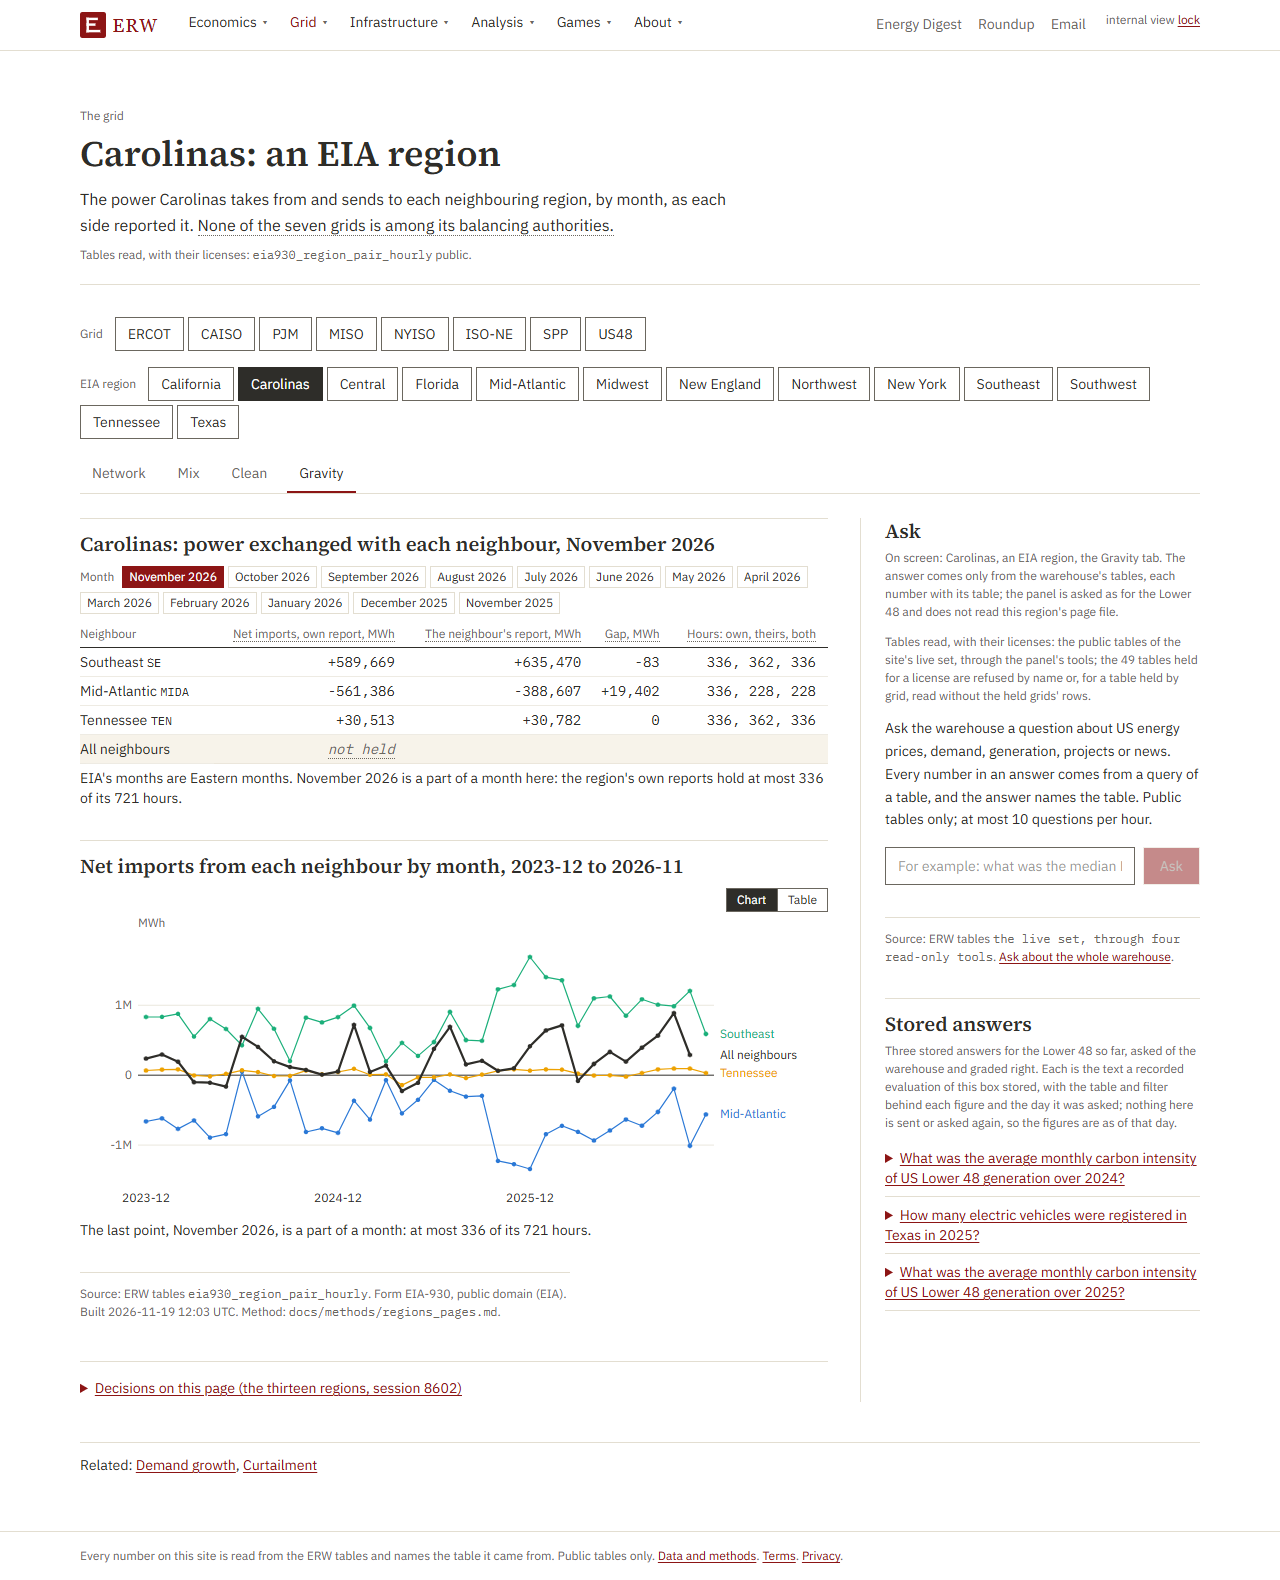
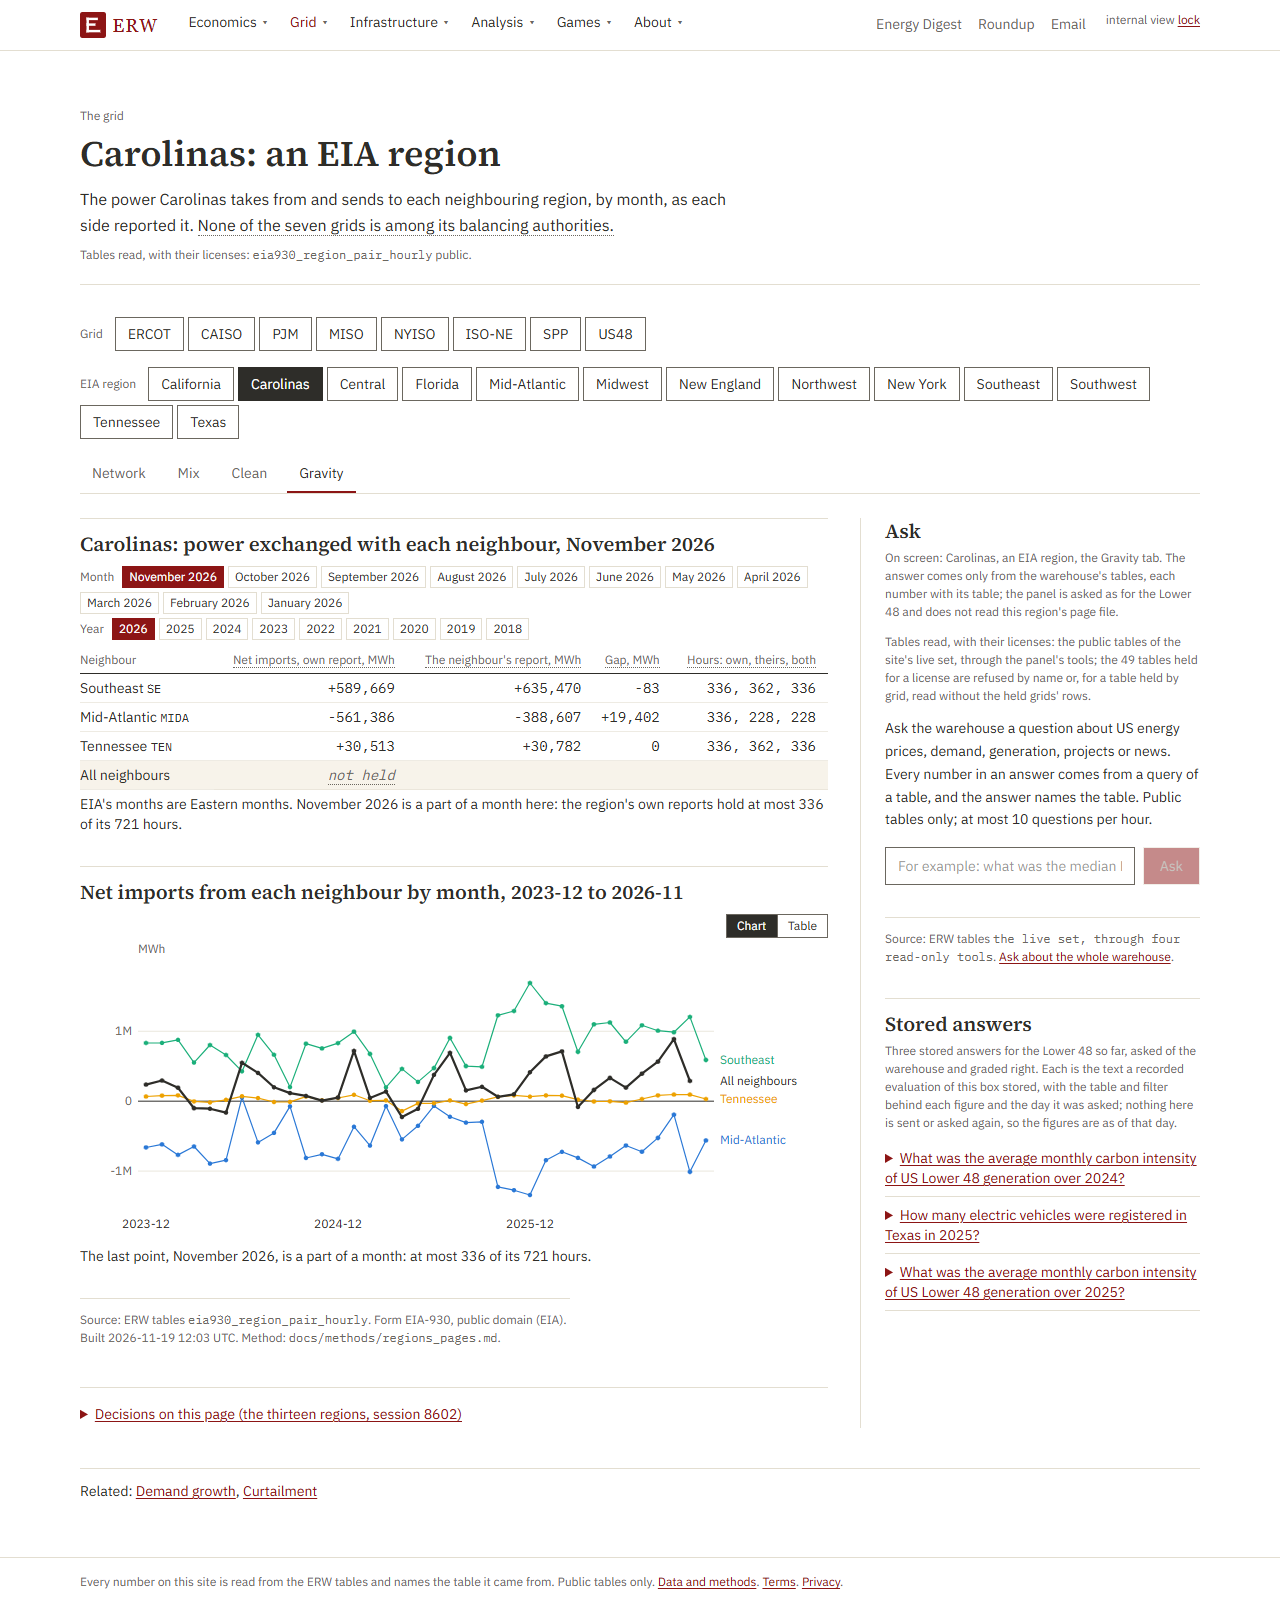
Session 8613: a second read of the regions (five cases, rows 39 to 41): the trade tab reaches every year the file holds; a year's shares say of which months its days are; tests; the method note; pictures

diff --git a/site/components/grid/RegionViews.tsx b/site/components/grid/RegionViews.tsx
@@ -23,7 +23,7 @@ import { RegionHours } from "@/components/grid/RegionHours";
 import { CategoryChart } from "@/components/svgchart";
 import { ToolPicker } from "@/components/tool/Choose";
 import { SourceLine } from "@/components/tool/ToolPage";
-import { ALIKE, MIX_SOURCES, NEW_REGIONS, lastHours, latestHour, monthsNotHeld, monthsOf, neighborName, netLoadFile, newestTradeMonth, notPrinted, partMonth, regionHref, storageNote, tradeMonth, whyBlank, whySentence,
+import { ALIKE, MIX_SOURCES, NEW_REGIONS, lastHours, latestHour, monthsNotHeld, monthsOf, neighborName, netLoadFile, newestTradeMonth, notPrinted, partMonth, regionHref, storageNote, tradeMonth, tradeYears, whyBlank, whySentence, yearMonths,
   type Alike, type IndexRegion, type RegionCode, type RegionIndex, type RegionMix, type RegionTrade, type RegionView } from "@/lib/gridregions";
 import * as mix from "@/lib/mix2";
 import { HOURS, n0, n1 } from "@/lib/mixpage";
@@ -115,6 +115,7 @@ export function RegionMixView({ region, mixFile, period, cal }: { region: IndexR
   // session 8605, the reader's read on the real files: the months the file does not hold are said under the chips, and
   // the Storage row says when one of the region's balancing authorities files no battery series
   const gaps = monthsNotHeld(mixFile);
+  const ofYear = asked && asked.length === 4 ? yearMonths(mixFile.years[asked]) : null;   // session 8613: a year's own months
   const never = notPrinted(mixFile);   // session 8610: the sources the file names as never printed by any authority of the region
   const battery = storageNote(region);
   const named = (key: string) => (key === "storage" && battery ? <span title={battery} className="cursor-help border-b border-dotted border-muted" data-storage-note="1">{label(key)}</span> : label(key));
@@ -193,7 +194,8 @@ export function RegionMixView({ region, mixFile, period, cal }: { region: IndexR
                 <NH key="s" words="not held" why={whyBlank(s.label, region.name, never.includes(s.key), "this period")} />, <NH key="m" words="not held" why={whyBlank(s.label, region.name, never.includes(s.key), "this period")} />] })),
               { key: "all", on: true, cells: ["Net generation", "", typeof p.net_generation_mwh === "number" ? n0(p.net_generation_mwh) : <NH key="g" words="not held" why="The period carries no total." />] }]} />
         ) : <p className="text-sm"><NH words="not held" why={`${region.name} holds no ${asked ? mix.periodName(asked) : "such period"}.`} /></p>}
-        {p ? <p className="mt-1 text-sm">{n0(p.days_held)} days held{typeof p.days_in_month === "number" ? <> of {p.days_in_month}</> : null}.</p> : null}
+        {/* session 8613 (row 40): a year says of which months its days are: the file's own count of months held and due, and the months not held */}
+        {p ? <p className="mt-1 text-sm">{n0(p.days_held)} days held{typeof p.days_in_month === "number" ? <> of {p.days_in_month}</> : null}{ofYear ? <span data-year-months={`${ofYear.months} of ${ofYear.due}`}>, in {ofYear.months} of the year&apos;s {ofYear.due} months{ofYear.due === 12 ? "" : " so far"}{ofYear.missing.length ? <> (not held: {ofYear.missing.map((k) => mix.periodName(k)).join(", ")})</> : null}</span> : null}.</p> : null}
       </Block>
       {/* one calendar month across the years */}
       <Block title={`Year after year: net load by hour in ${calAsked ? mix.calName(calAsked) : ""}`} id="years">
@@ -241,6 +243,7 @@ export function RegionTradeView({ region, trade, month }: { region: IndexRegion;
   const asked = month && trade.months.includes(month) ? month : newest;
   const m = asked ? tradeMonth(trade, asked) : null;
   const last = trade.months.slice(-36);
+  const years = tradeYears(trade);
   // session 8605: a month still in progress (or one a side reported in part) is said, beside the table and under the chart
   const part = asked ? partMonth(trade, asked) : null;
   const lastPart = last.length ? partMonth(trade, last[last.length - 1]) : null;
@@ -250,7 +253,11 @@ export function RegionTradeView({ region, trade, month }: { region: IndexRegion;
   return (
     <div data-region-view="trade" data-region-trade={code} data-region-month={asked ?? ""}>
       <Block title={`${region.name}: power exchanged with each neighbour, ${asked ? mix.periodName(asked) : ""}`} id="trade">
-        <div className="mb-2"><Chips label="Month" items={trade.months.slice(-13).reverse().map((x) => ({ key: x, label: mix.periodName(x), href: regionHref(code, "gravity", { month: x === newest ? undefined : x }), on: x === asked }))} /></div>
+        {/* session 8613 (the second read, row 39): every year the file holds can be reached; the months offered are those of the year shown (it offered the newest thirteen and no way to an older one) */}
+        <div className="mb-2 space-y-1">
+          <Chips label="Month" items={(years.find((y) => y.year === (asked ?? "").slice(0, 4))?.months ?? []).map((x) => ({ key: x, label: mix.periodName(x), href: regionHref(code, "gravity", { month: x === newest ? undefined : x }), on: x === asked }))} />
+          <Chips label="Year" items={years.map((y) => ({ key: y.year, label: y.year, href: regionHref(code, "gravity", { month: y.months[0] === newest ? undefined : y.months[0] }), on: y.year === (asked ?? "").slice(0, 4) }))} />
+        </div>
         {m ? (
           <Table name="trade" caption={`Net imports of ${region.name} from each neighbour, ${asked}`}
             head={["Neighbour", <Head key="o" tip={`Net imports from the neighbour over the month as the region's own balancing authorities reported them, MWh: positive when the region imported, negative when it exported.`}>Net imports, own report, MWh</Head>,

diff --git a/site/lib/gridregions.ts b/site/lib/gridregions.ts
@@ -233,6 +233,29 @@ export function tradeMonth(file: RegionTrade, month: string): { month: string; t
   return { month, total: at(file.net_imports_mwh), rows };
 }
 
+/** Session 8613 (the second read of the regions, row 39): every year a trade file holds, newest first, each with its
+ *  months in which any neighbour's own report is held, newest first. The trade tab offered the newest thirteen months
+ *  and no way to an older one, though the files go back to July 2018. A year with no such month is left out. */
+export function tradeYears(file: RegionTrade): { year: string; months: string[] }[] {
+  const by = new Map<string, string[]>();
+  file.months.forEach((m, i) => {
+    if (!Object.values(file.neighbors).some((n) => n.net_imports_mwh?.[i] !== null && n.net_imports_mwh?.[i] !== undefined)) return;
+    const y = m.slice(0, 4);
+    by.set(y, [m, ...(by.get(y) ?? [])]);
+  });
+  return [...by.entries()].sort((a, b) => b[0].localeCompare(a[0])).map(([year, months]) => ({ year, months: months.sort().reverse() }));
+}
+
+/** Session 8613 (row 40): what a year of a mix file says of its own months: how many it holds, how many were due, and
+ *  which are not held, as the file writes them (`months`, `months_due`, `missing`). Null for a month, or for a year
+ *  whose entry does not say. */
+export function yearMonths(p: MixPeriod | null | undefined): { months: number; due: number; missing: string[] } | null {
+  const months = p?.months, due = p?.months_due;
+  if (typeof months !== "number" || typeof due !== "number") return null;
+  const missing = Array.isArray(p?.missing) ? (p!.missing as unknown[]).filter((k): k is string => typeof k === "string") : [];
+  return { months, due, missing };
+}
+
 /** The newest month in which any neighbour's own report is held. */
 export function newestTradeMonth(file: RegionTrade): string | null {
   for (let i = file.months.length - 1; i >= 0; i -= 1) if (Object.values(file.neighbors).some((n) => n.net_imports_mwh?.[i] !== null && n.net_imports_mwh?.[i] !== undefined)) return file.months[i];

diff --git a/tests/test_session8613.py b/tests/test_session8613.py
@@ -1,0 +1,104 @@
+"""Session 8613 (chain 504, 19 November 2026): a second reader's read of the region tabs on the real files.
+
+Energy Research Warehouse (ERW). Five more cases were taken in a browser on a build, on the controls the first read
+did not exercise (docs/reviews/grid-map-read-2026-11-19.md, rows 39 on). What is held here:
+- row 39: the trade tab offered the newest thirteen months and no way to an older one, though a region's trade file
+  goes back to July 2018. Every year the file holds is now a chip, and the months offered are those of the year shown;
+- row 40: with a whole year as the period, the shares said "301 days held" and not of which months. The line now gives
+  the file's own count of the year's months held and due, and names the months not held.
+The figures below are made up for the tests and are in no page. Nothing here sets the environment or makes a request.
+"""
+
+import json
+import os
+import shutil
+import subprocess
+import unittest
+
+ROOT = os.path.abspath(os.path.join(os.path.dirname(__file__), ".."))
+SITE = os.path.join(ROOT, "site")
+NODE = shutil.which("node")
+EM = chr(0x2014)
+
+
+def src(*p):
+    with open(os.path.join(ROOT, *p), encoding="utf-8") as f:
+        return f.read()
+
+
+def node(code):
+    r = subprocess.run([NODE, "--input-type=module", "-e", code], cwd=SITE, capture_output=True, text=True, encoding="utf-8", timeout=120)
+    assert r.returncode == 0, r.stderr
+    return json.loads(r.stdout.strip().splitlines()[-1])
+
+
+@unittest.skipUnless(NODE, "node is not installed")
+class TheYearsOfATradeFile(unittest.TestCase):
+    """Row 39."""
+
+    @classmethod
+    def setUpClass(cls):
+        cls.d = node("import { tradeYears } from './lib/gridregions.ts';"
+                     "const months = ['2024-11', '2024-12', '2025-01', '2025-02', '2025-03', '2026-01'];"
+                     "const n = (own) => ({ net_imports_mwh: own, their_report_mwh: own, gap_mwh: own, hours_own: own, hours_their: own, hours_both: own });"
+                     # A reports in every month but March 2025; B only in December 2024 and March 2025; nobody in January 2026
+                     "const file = { months, net_imports_mwh: [1, 1, 1, 1, 1, null], neighbors: { A: n([5, 6, 7, 8, null, null]), B: n([null, 9, null, null, 3, null]) } };"
+                     "console.log(JSON.stringify({ years: tradeYears(file), none: tradeYears({ months, net_imports_mwh: [], neighbors: { A: n([null, null, null, null, null, null]) } }), empty: tradeYears({ months: [], net_imports_mwh: [], neighbors: {} }) }));")
+
+    def test_every_year_newest_first_with_its_months_newest_first(self):
+        self.assertEqual(self.d["years"], [{"year": "2025", "months": ["2025-03", "2025-02", "2025-01"]}, {"year": "2024", "months": ["2024-12", "2024-11"]}])
+
+    def test_a_month_no_neighbour_reported_by_the_regions_own_side_is_not_offered(self):
+        self.assertNotIn("2026", [y["year"] for y in self.d["years"]])     # January 2026 holds no own report, so the year has no month to show
+        self.assertEqual(self.d["none"], [])
+        self.assertEqual(self.d["empty"], [])
+
+    def test_the_tab_offers_the_years_and_the_months_of_the_year_shown(self):
+        v = src("site", "components", "grid", "RegionViews.tsx")
+        self.assertIn("const years = tradeYears(trade);", v)
+        self.assertIn('<Chips label="Month" items={(years.find((y) => y.year === (asked ?? "").slice(0, 4))?.months ?? []).map(', v)
+        self.assertIn('<Chips label="Year" items={years.map((y) => ({ key: y.year, label: y.year, href: regionHref(code, "gravity", { month: y.months[0] === newest ? undefined : y.months[0] })', v)
+        self.assertNotIn("trade.months.slice(-13)", v)
+
+
+@unittest.skipUnless(NODE, "node is not installed")
+class AYearsOwnMonths(unittest.TestCase):
+    """Row 40."""
+
+    @classmethod
+    def setUpClass(cls):
+        cls.d = node("import { yearMonths } from './lib/gridregions.ts';"
+                     "console.log(JSON.stringify({ whole: yearMonths({ months: 12, months_due: 12, missing: [], days_held: 365 }), part: yearMonths({ months: 10, months_due: 12, missing: ['2025-01', '2025-02', 7], days_held: 301 }),"
+                     " running: yearMonths({ months: 10, months_due: 11, missing: ['2026-11'] }), month: yearMonths({ days_held: 31, days_in_month: 31 }), nothing: yearMonths(null), words: yearMonths({ months: 'ten', months_due: 12 }) }));")
+
+    def test_the_files_own_count_and_the_months_not_held(self):
+        self.assertEqual(self.d["whole"], {"months": 12, "due": 12, "missing": []})
+        self.assertEqual(self.d["part"], {"months": 10, "due": 12, "missing": ["2025-01", "2025-02"]})   # what is no month's name is left out
+        self.assertEqual(self.d["running"], {"months": 10, "due": 11, "missing": ["2026-11"]})
+
+    def test_a_month_or_an_entry_that_does_not_say_gives_nothing(self):
+        self.assertIsNone(self.d["month"])
+        self.assertIsNone(self.d["nothing"])
+        self.assertIsNone(self.d["words"])
+
+    def test_the_line_under_the_shares(self):
+        v = src("site", "components", "grid", "RegionViews.tsx")
+        self.assertIn("const ofYear = asked && asked.length === 4 ? yearMonths(mixFile.years[asked]) : null;", v)
+        self.assertIn("data-year-months={`${ofYear.months} of ${ofYear.due}`}", v)
+        self.assertIn('{ofYear.due === 12 ? "" : " so far"}', v)
+        self.assertIn("(not held: {ofYear.missing.map((k) => mix.periodName(k)).join(\", \")})", v)
+
+
+class TheRest(unittest.TestCase):
+    def test_the_check_follows_a_year(self):
+        s = src("site", "scripts", "check-grid-regions.mjs")
+        self.assertIn("tradeYears(trade)", s)
+        self.assertIn('data-chip="Year:', s)
+
+    def test_no_em_dash(self):
+        for p in (("site", "components", "grid", "RegionViews.tsx"), ("site", "lib", "gridregions.ts"), ("site", "scripts", "check-grid-regions.mjs"), ("tests", "test_session8613.py")):
+            self.assertNotIn(EM, src(*p), p)
+
+
+if __name__ == "__main__":
+    unittest.main()

diff --git a/docs/reviews/grid-map-read-2026-11-19.md b/docs/reviews/grid-map-read-2026-11-19.md
@@ -126,3 +126,35 @@ Session 8612, 19 November 2026, about 16:25 to 16:35 UTC, on a build of `wip/860
 ### What the second read changed on the page
 
 Two site faults fixed at their cause, each with a test in `tests/test_session8612.py` (rows 35 and 36). One ruling with the default taken (34). On a build: `check-grid-map.mjs` 53 of 53, `check-grid-regions.mjs` 26 of 26.
+
+## A second read of the regions (session 8613)
+
+Session 8613, 19 November 2026, about 16:42 to 16:52 UTC, on a build of `wip/8602-grid-regions` with the data machine's real files, by `runs/c504_region_read2.mjs` (what the page said: `runs/c504_region_read2b.out`; pictures `docs/reviews/grid-regions-2026-11-19/case11*.png` to `case15*.png`). The same five readers, each on a control the first read did not exercise.
+
+### The five cases
+
+11. **The transmission planner.** "New England and Canada in January 2026, and the months before." The trade tab, a past month, the chart's Table.
+12. **The power trader.** "The Midwest over the whole of 2025: what made the power?" The Mix tab with a year as the period.
+13. **The student.** "New York in July, year after year; and how New York the region differs from NYISO." The calendar months, the picker's hover, the Clean tab.
+14. **The siting analyst.** "From the Central region to the Southwest, then to ERCOT, without losing the tab." The two pickers.
+15. **The battery developer.** "Texas's batteries hour by hour: when do they charge, when do they discharge, and how much?" The hour by hour chart, its Table, a phone.
+
+### What each reader got
+
+- **Case 11.** Answered for January 2026: New England took 951,533 MWh from New York (New York's own report: 953,454) and 184,354 MWh from Canada, whose side files nothing. The chart's Table lists 36 months with the same figures. Before the fix of row 39 no control reached a month older than November 2025, though the file goes back to July 2018.
+- **Case 12.** Answered. Over 2025 the Midwest made 35.4 percent of its power from natural gas, 31.7 from coal, 13.6 from wind, 12.8 from nuclear. Before the fix of row 40 the line under the shares read "301 days held", with no word that January and February are not in the year.
+- **Case 13.** Answered for the load: New York's July net load by hour for nine years, with each year's midday low, evening high and ramp, and a box of every year's figure under the pointer. The picker's hover says why New York and NYISO can differ. Not answered: how clean (the Clean tab is blank for every region; request 540).
+- **Case 14.** Answered. The region picker keeps the tab (Central's trade to the Southwest's trade); the grid picker opens ERCOT on the same tab.
+- **Case 15.** Answered. On 6 and 7 November the batteries of Texas charged 2,622 MW at 18:00 UTC with 27,865 MW of solar, discharged 5,213 MW at 00:00 UTC as the sun was gone, and charged 3,866 MW at 17:00 UTC the next day. The Table holds the 840 hours with its head kept in place; at 390 px the names stand at the right, inside the screen.
+
+### The rows
+
+| # | Case | What the reader met | What it is | State |
+|---:|---|---|---|---|
+| 39 | 11 | The trade tab offered the newest thirteen months and no way to an older one; the file holds 101, from July 2018 | Site gap of session 8602 | fixed (session 8613): a row of years, every year the file holds; the months offered are those of the year shown; a year opens on its newest month. The check opens 2018 and reads the file's figures |
+| 40 | 12 | With a year as the period, "301 days held" and not of which months | Site gap: the file's year says how many months it holds, how many were due and which are missing, and the page did not use it | fixed (session 8613): "301 days held, in 10 of the year's 12 months (not held: January 2025, February 2025)"; for the year in progress, "of the year's 11 months so far" |
+| 41 | 11 | The chart of trade draws the newest 36 months, whatever month is chosen | The chart's own span, said in its title ("2023-12 to 2026-11"); the months before are reached by the years' row and read in the table | not a fault |
+
+### What the second read of the regions changed on the page
+
+Two site gaps fixed at their cause, each with a test in `tests/test_session8613.py` (rows 39 and 40). On a build of the real files: `check-grid-regions.mjs` 28 of 28; the replication read again, 1,375 of 1,375.

diff --git a/docs/methods/grid_network.md b/docs/methods/grid_network.md
@@ -350,6 +350,8 @@ A cross-check, not a replication: it reads EIA's published figure for the same h
 
 **The region tabs' replication (session 8606).** `replication/grid/regions_figures.mjs` reads from a built page the figures the Mix and trade tabs draw for each of the thirteen regions; `replication/grid/replicate_regions.py` computes each again from the region files with none of the page's code (the latest hour and its shares, the newest month's energy and shares, the days held, the months not held, the calendar month across the years with its midday low, evening high and ramp, the newest month of trade with its hours, the line on a part of a month) and compares: 1,349 of 1,349 figures met on 19 November 2026 (`regions_figures_met.csv`). It replicates the page from its files; the files from the warehouse's tables are the data machine's (`docs/methods/regions_pages.md`). When the region files are rebuilt, the page is to be read again before the comparison: the script says so and stops. The page's decisions block for a region ("Decisions on this page") carries five more lines since this session: the hour by hour chart's rule, the months' rule, the part of a month, storage, and what the cross-check found.
 
+**After the second read of the regions (session 8613).** Two gaps, both fixed from the files' own fields. The trade tab has a row of years, every year the file holds (July 2018 on), and the months offered are those of the year shown; it offered the newest thirteen months and no way to an older one. And with a whole year as the Mix tab's period, the line under the shares gives the file's own count of the year's months held and due and names the months not held ("301 days held, in 10 of the year's 12 months (not held: January 2025, February 2025)"). No figure is computed for either. Held by `tests/test_session8613.py`.
+
 **A source no authority has ever printed (session 8610, made ready before the files).** Data request 551 found the region files writing 0 where EIA publishes no series at all. The data machine's answer (the contract's line of 19 November): such a source is `null` all through the region's mix file (its averages, its energy, its share, its hourly array) and is named in a new key, `sources_not_printed`: wind in the Carolinas, Florida and the Southeast; storage in the Mid-Atlantic and Tennessee; coal, solar and storage in New York. The files in that form were not on main when this was written; the page was made ready on a copy of New York's real file with the three set to null (never shipped), and is held by `tests/test_session8610.py`:
 
 - In the latest hour's table and in the table of shares such a source is a row, blank in every cell ("not held"), after the sources that are held. Its hover says no balancing authority of the region has reported it to EIA in any hour held since July 2018, and that it is blank, not zero. It was 0 MW, 0.0 percent and 0 MWh.
